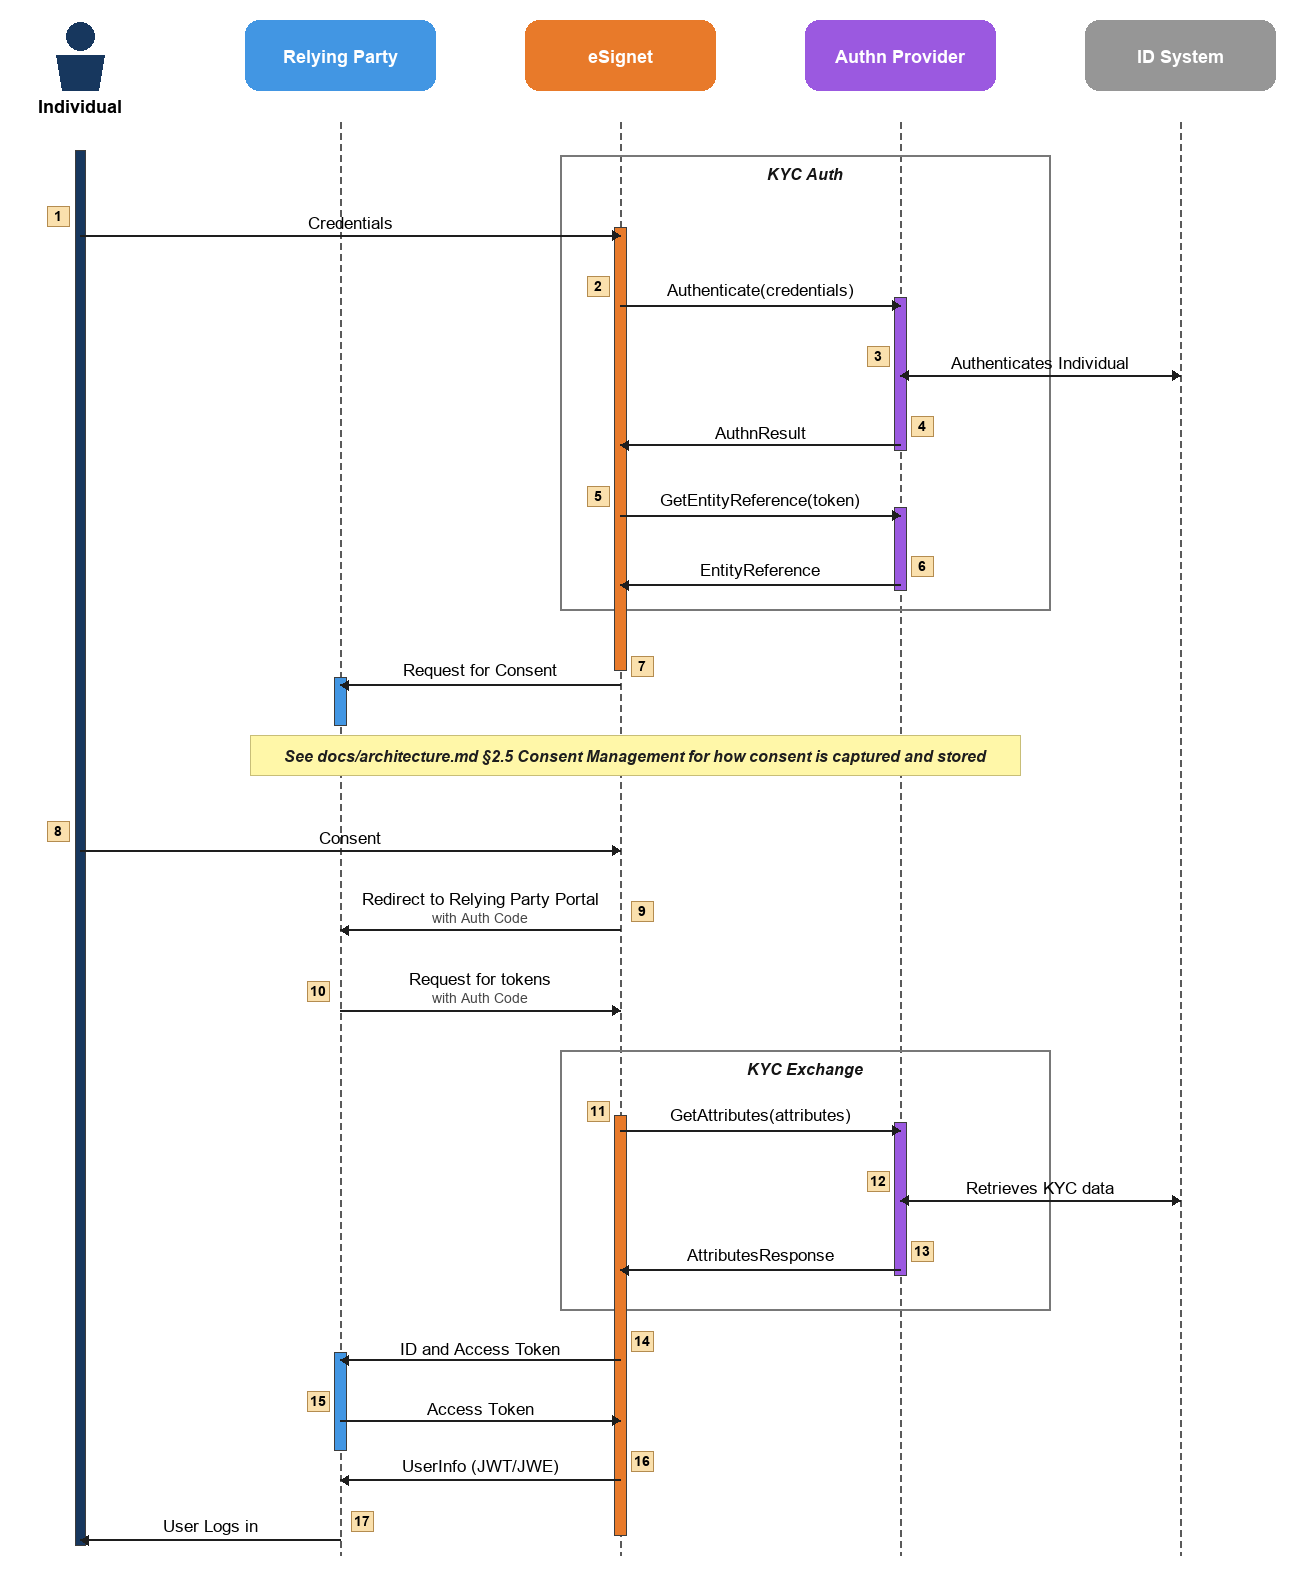
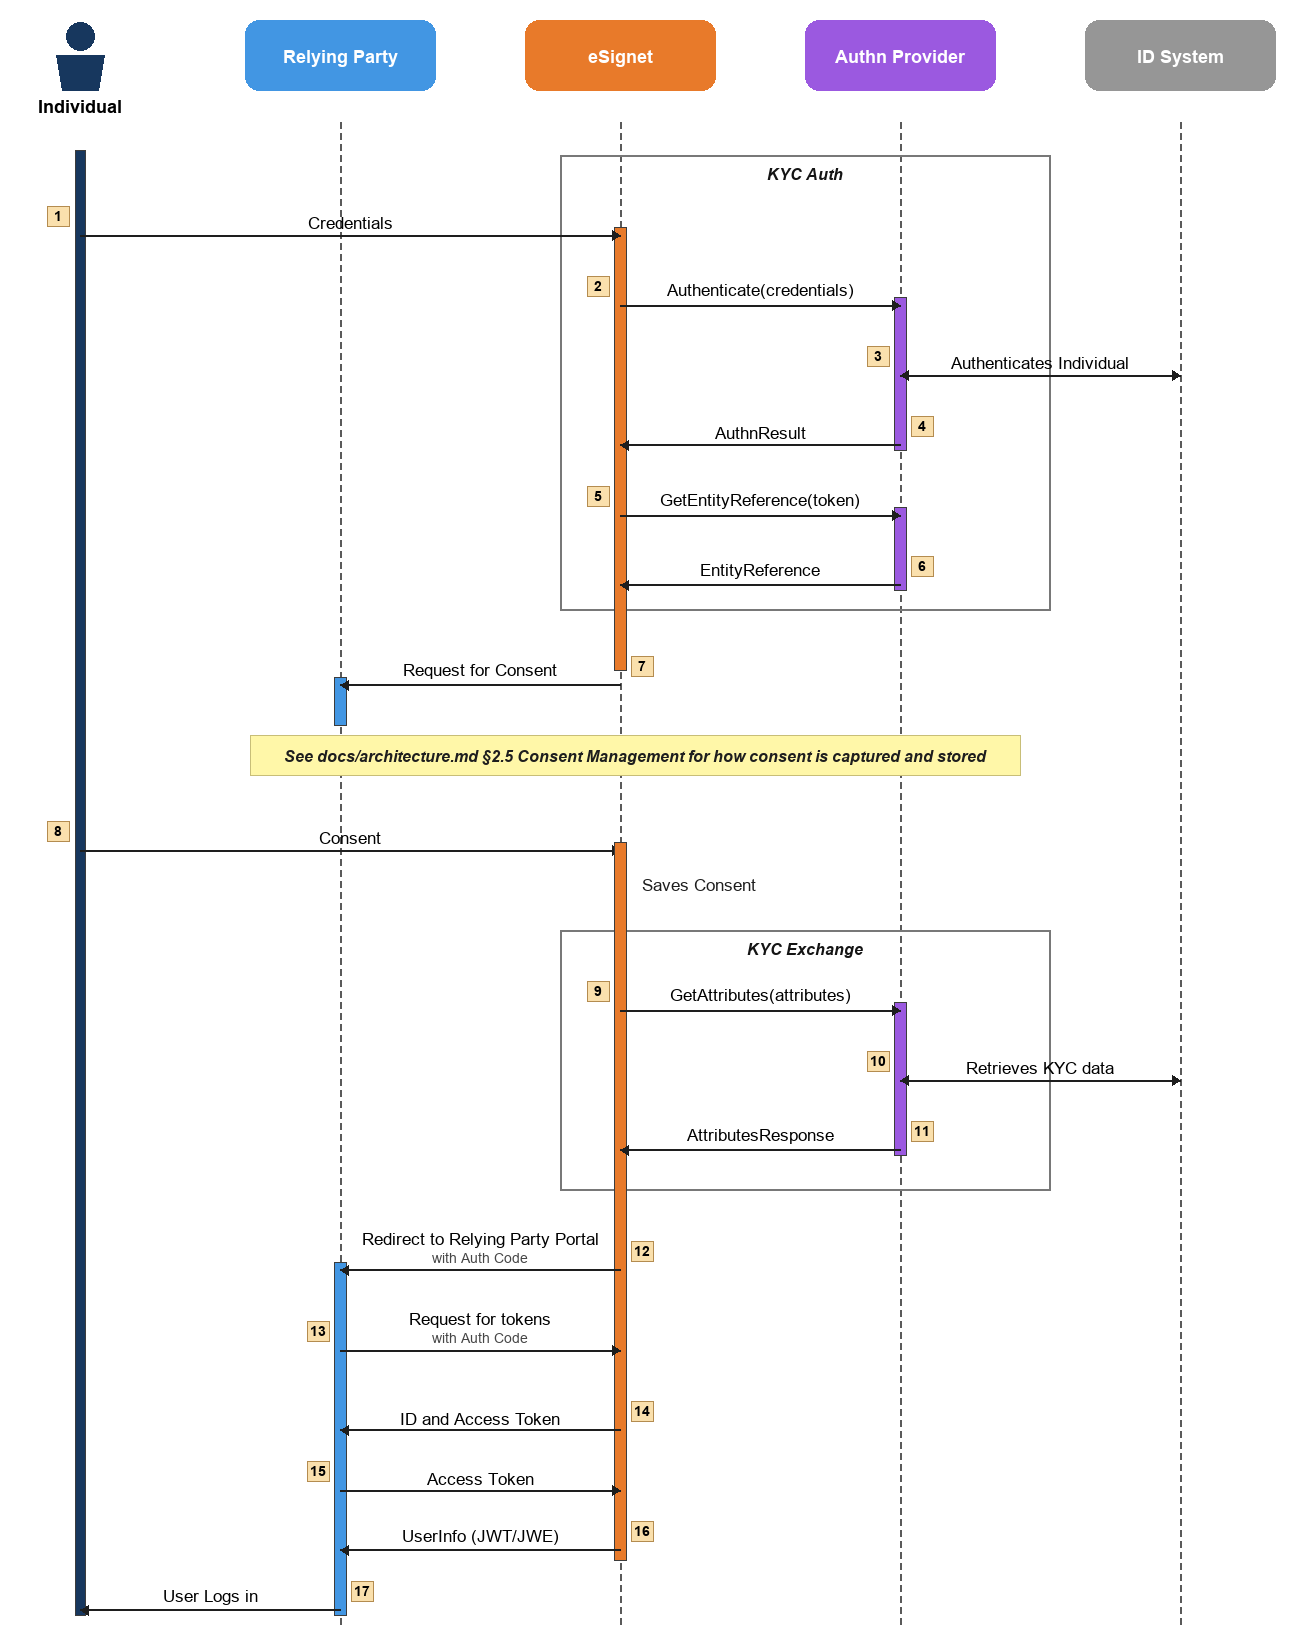
resolved review comments

diff --git a/docs/authn-provider-integration.md b/docs/authn-provider-integration.md
@@ -121,7 +121,7 @@ type CertificateData struct {
 }
 ```
 
-`identifiers` and `credentials` are `map[string]interface{}` arguments — `Authenticate` receives both; `SendOTP` receives only `identifiers` (plus `metadata`, in both cases). They split the login form's inputs, but not strictly by "sensitive vs. not" — the actual split, per the flow executor that builds these maps, is: a UIN/username lands in `identifiers`; OTP and password land in `credentials` (they arrive as sensitive `OTP_INPUT`/`PASSWORD_INPUT` flow inputs); PIN and biometric payloads land in `identifiers`, not `credentials`; and an arbitrary KBI challenge (no fixed field set) is read from whatever remains in `credentials`. See [`internal/engine/mock/authenticator.go`](../esignet-service/internal/engine/mock/authenticator.go)'s `setChallenge` function for the exact per-factor mapping.
+`identifiers` and `credentials` are `map[string]interface{}` arguments — `Authenticate` receives both; `SendOTP` receives only `identifiers` (plus `metadata`, in both cases). They split the login form's inputs, but not strictly by "sensitive vs. not" — the actual split, per the flow executor that builds these maps, is: a UIN/username lands in `identifiers`; OTP and password land in `credentials` (they arrive as sensitive `OTP_INPUT`/`PASSWORD_INPUT` flow inputs); PIN and biometric payloads land in both `identifiers` and `credentials` (the mock provider reads them from `identifiers`); and an arbitrary KBI challenge (no fixed field set) is read from whatever remains in `credentials`. See [`internal/engine/mock/authenticator.go`](../esignet-service/internal/engine/mock/authenticator.go)'s `setChallenge` function for the exact per-factor mapping.
 
 ### Errors
 
